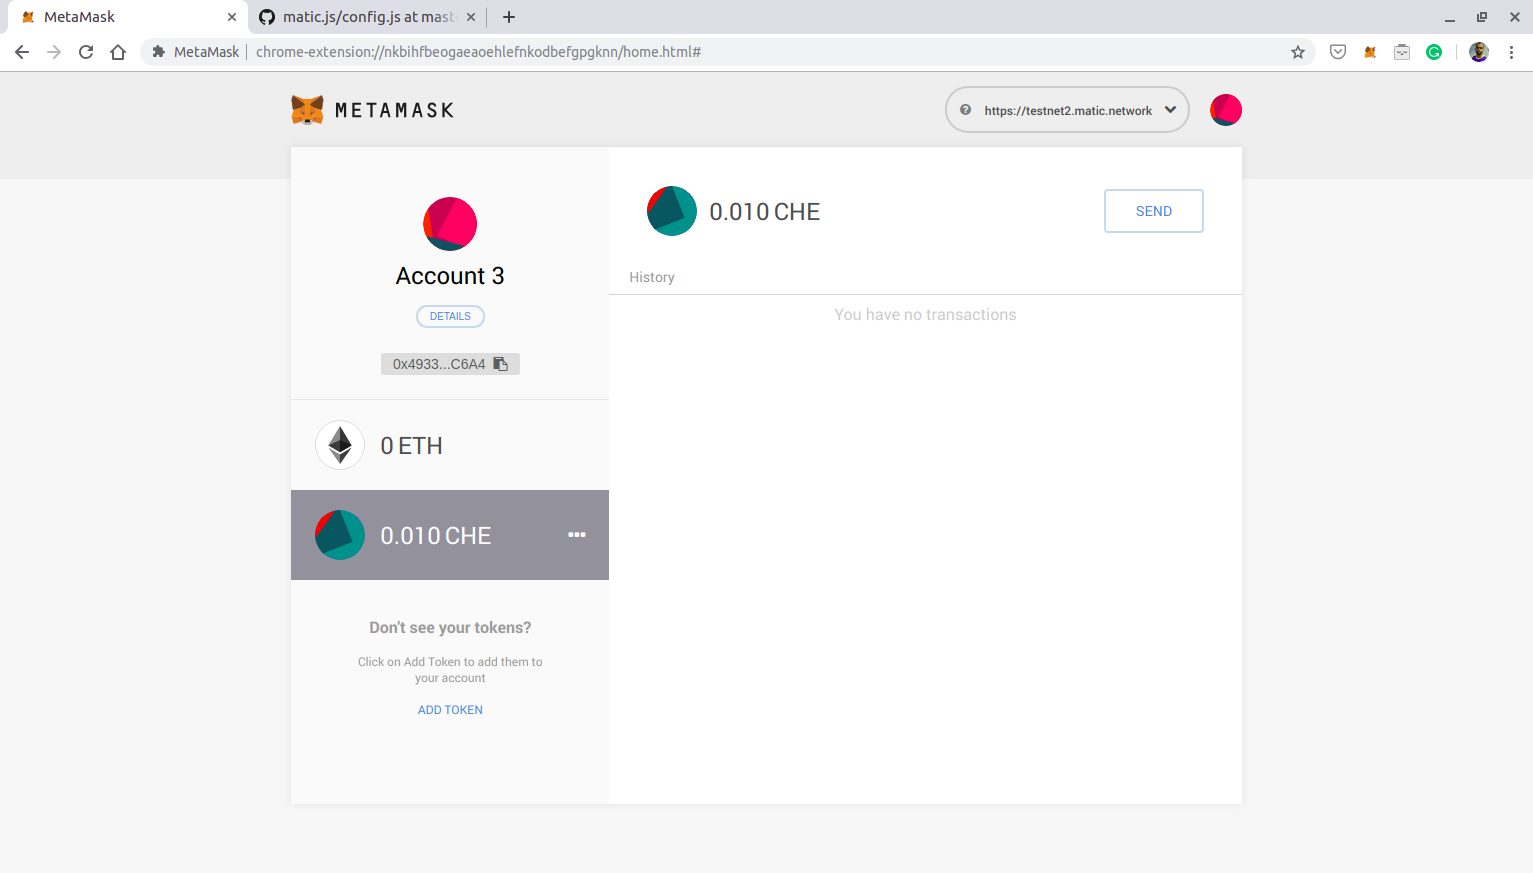
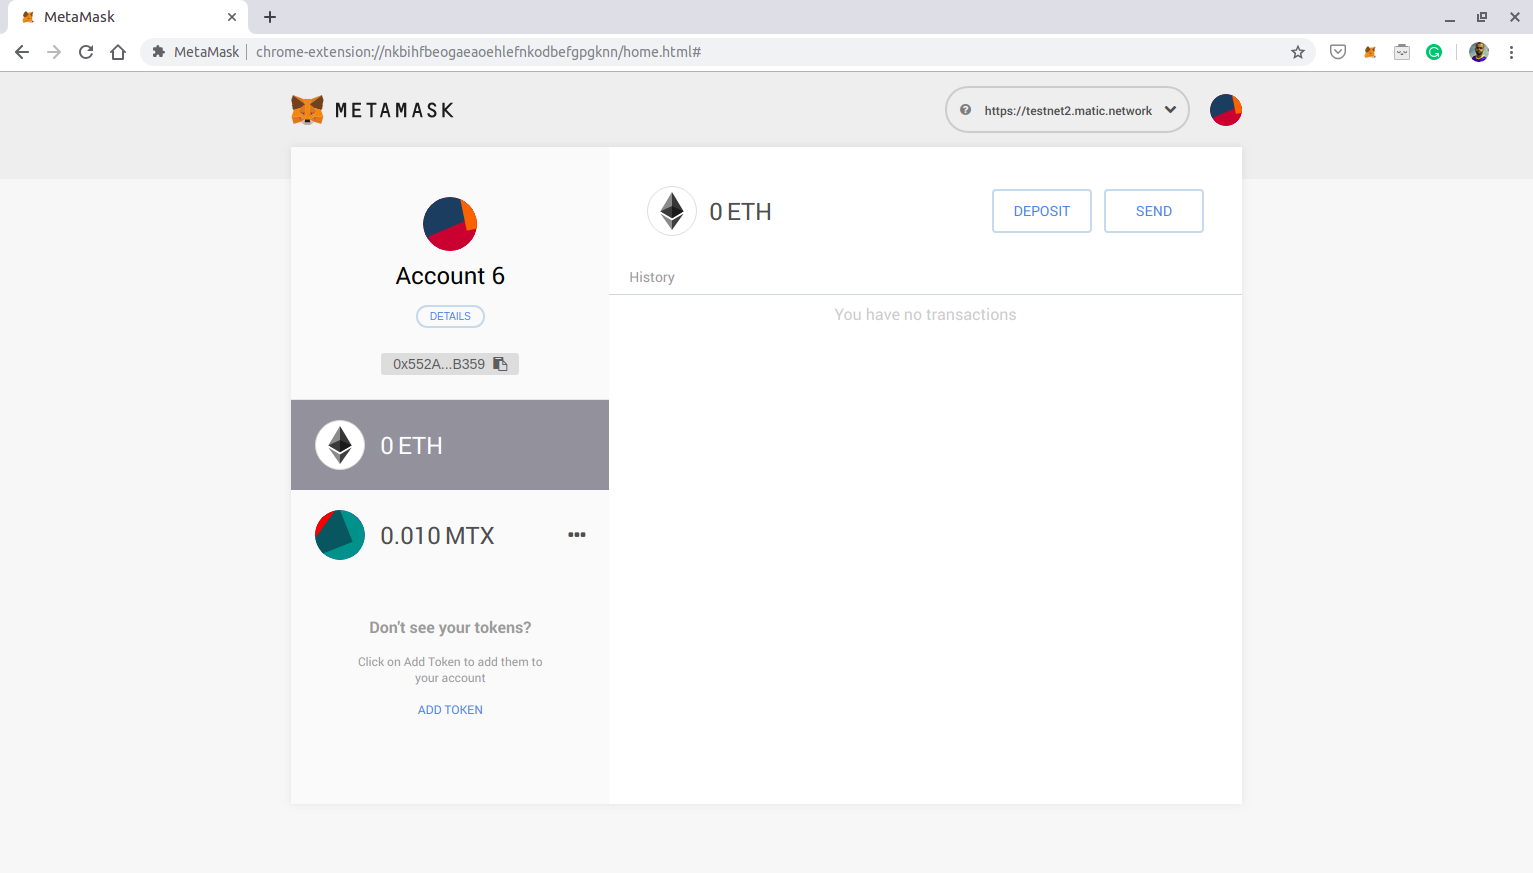
updated screens and minor text changes

diff --git a/docs/matic-js-tutorial.md b/docs/matic-js-tutorial.md
@@ -10,7 +10,7 @@ In order to make any transactions, you will also need some Ether in the test acc
 
 ### Matic Faucet
 
-Throughout this tutorial, we will be using the ERC20 token `MTX` on the Ropsten network as an example. This is a TEST token. In your DApp,you can replace it with any ERC20 token. To get some Test `MTX` tokens on Matic Network, you can access the Matic Faucet: https://wallet.matic.network/faucet
+Throughout this tutorial, we will be using the ERC20 token `MTX` on the Ropsten network as an example. This is a TEST token. In your DApp, you can replace it with any ERC20 token. To get some Test `MTX` tokens on Matic Network, you can access the Matic Faucet: https://wallet.matic.network/faucet
 
 All you would need to do is follow simple steps on the link above and you will get some funds in to your account:
 
@@ -39,9 +39,9 @@ Before starting with the tutorial, go ahead and have 3 Ethereum test accounts re
 For your reference we will be using the following accounts in this tutorial
 
 ```js
-Account #1: 0xdcd53258BA8A69C6a505300BE75447A772bFd3d6
-Account #2: 0xbAf7D06543b241E286dc776545c8e9F318aBcC47
-Account #3: 0x4933ba598e6B1f33bCDc299bE76AbE2DdFbCC6A4
+Account #1: 0x74FE3F2b084062dEe9AE0662cA14ecf5C85b94a8
+Account #2: 0x05446221202a128a10978D4C9c4500C780455429
+Account #3: 0x552A00De3aa5953efe4caE8c2c8a04b48554B359
 ```
 
 When you create multiple accounts at your end, your addresses will be different from those shown here.
@@ -213,15 +213,15 @@ matic
 
 For reference purposes, the screenshots below will provide context during the actual deposit.
 
-We currently have `9988.460 MTX` tokens and `19` ETH at our address `(0xdcd53258BA8A69C6a505300BE75447A772bFd3d6)` on Ropsten Network,
+We currently have `10 MTX` tokens and `0.5` ETH at our address `0xdcd53258BA8A69C6a505300BE75447A772bFd3d6` on Ropsten Network,
 
 ![Arch](maticjstutorial-images/before-deposit-balance-ropsten.png)
 
-while on Matic Network we have `0 Matic ETH` and `4.680 MTX` tokens.
+while on Matic Network we have `0 MTX` tokens.
 
 ![Arch](maticjstutorial-images/before-deposit-balance-matic.png)
 
-We will be depositing `0.100 MTX` tokens to Matic Testnet.
+We will be depositing `1 MTX` tokens to Matic Testnet.
 
 Let’s run the Deposit function. To run use:
 
@@ -233,11 +233,11 @@ We have added console logging for both events, which when run successfully will 
 
 Let’s verify our account balances on Metamask.
 
-Our Balance on Ropsten now shows `9988.360 MTX` which means our Deposit transaction of `0.100 MTX` was successful.
+Our Balance on Ropsten now shows `9 MTX` which means our Deposit transaction of `1 MTX` was successful.
 
 ![Arch](maticjstutorial-images/after-deposit-balance-update-ropsten.png)
 
-Verifying our balance on Matic Testnet also shows that our balance is increased by `0.100 MTX`.
+Verifying our balance on Matic Testnet also shows that our balance is increased by `1 MTX`.
 
 ![Arch](maticjstutorial-images/after-deposit-balance-update-matic.png)
 
@@ -287,7 +287,7 @@ matic.transferTokens(token, recipient, amount, {
 `recipient` is the receiver’s address, to whom the funds are supposed to be sent.
 
 ```js
-const recipient = "0x4933ba598e6B1f33bCDc299bE76AbE2DdFbCC6A4" // to address
+const recipient = "0x05446221202a128a10978D4C9c4500C780455429" // to address
 ```
 
 `token` is the Matic TEST token contract address on the Matic testnet. **Note that this is different from the Ropsten MTX token contract address.**. This is automatically picked up from the `config.js` file.
@@ -321,11 +321,11 @@ The screenshots below will provide context during the actual transfer.
 
 **Transfer #1**
 
-We will be transferring `1 MTX` from Account 1 to Account 2 on Matic Network.
+We will be transferring `0.100 MTX` from Account 1 to Account 2 on Matic Network.
 
-Account 1–`0xdcd53258BA8A69C6a505300BE75447A772bFd3d6`. This account currently holds `4.780 MTX` tokens.
+Account 1–`0x74FE3F2b084062dEe9AE0662cA14ecf5C85b94a8`. This account currently holds `9 MTX` tokens.
 
-Account 2–`0xbAf7D06543b241E286dc776545c8e9F318aBcC47`. This account currently holds `0.010 MTX` tokens.
+Account 2–`0x05446221202a128a10978D4C9c4500C780455429`. This account currently holds `0 MTX` tokens.
 
 ![Arch](maticjstutorial-images/account2-transfer1-balance.png)
 
@@ -339,11 +339,11 @@ Once the code has run successfully, it will display a message of `"Transfer done
 
 Let’s verify our balances on Metamask.
 
-Our balance on account address — `0xdcd53258BA8A69C6a505300BE75447A772bFd3d6` is now updated to `3.780 MTX` tokens.
+Our balance on account address — `0xdcd53258BA8A69C6a505300BE75447A772bFd3d6` is now updated to `0.900 MTX` tokens.
 
 ![Arch](maticjstutorial-images/account1-transfer1-update.png)
 
-And to confirm that on our receiver’s account, our balance is now updated to `1.010 MTX` tokens.
+And to confirm that on our receiver’s account, our balance is now updated to `0.100 MTX` tokens.
 
 ![Arch](maticjstutorial-images/account2-transfer1-update.png)
 
@@ -352,11 +352,11 @@ And to confirm that on our receiver’s account, our balance is now updated to `
 
 In this transaction we will attempt to transfer `0.01 MTX` from Account 1 to Account 3.
 
-From — `0xdcd53258BA8A69C6a505300BE75447A772bFd3d6`
+From — `0x74FE3F2b084062dEe9AE0662cA14ecf5C85b94a8`
 
 ![Arch](maticjstutorial-images/account1-transfer1-update.png)
 
-To — `0x4933ba598e6B1f33bCDc299bE76AbE2DdFbCC6A4`. Account 3 currently has `0 MTX` tokens.
+To — `0x552A00De3aa5953efe4caE8c2c8a04b48554B359`. Account 3 currently has `0 MTX` tokens.
 
 ![Arch](maticjstutorial-images/account3-transfer2-balance.png)
 
@@ -364,7 +364,7 @@ We will again run `$ node transfer-ERC20.js` from the terminal. Once we get the 
 
 ![Arch](maticjstutorial-images/run-transfer-erc20-2.png)
 
-Balance on Account 1 now shows a balance of `3.770 MTX`,
+Balance on Account 1 now shows a balance of `0.890MTX`,
 
 ![Arch](maticjstutorial-images/account1-transfer2-update.png)
 
@@ -499,15 +499,15 @@ _Note: A checkpoint, which is a representation of all transactions happening on 
 
 We will now initiate the Withdraw process.
 
-We currently have `3.770 MTX` tokens at our address on Matic — `0xdcd53258BA8A69C6a505300BE75447A772bFd3d6`
+We currently have `0.890 MTX` tokens at our address on Matic — `0x74FE3F2b084062dEe9AE0662cA14ecf5C85b94a8`
 
-We will withdraw `1 MTX` from the Matic Account.
+We will withdraw `0.010 MTX` from the Matic Account.
 
 To initiate the withdraw we will run `$ node initiate-withdraw-ERC20.js`.
 
 Once this process is initiated, you will receive the transaction hash. The transaction hash will be used as input to run the next step i.e. confirm withdraw process.
 
[2 lines of base64/hex data omitted]
 
 Once the initiate process is complete, we will wait for ~5 minutes, before running the second script `$ node confirm-withdraw.js`.
 
@@ -515,7 +515,7 @@ Once the initiate process is complete, we will wait for ~5 minutes, before runni
 
 To verify, we will also check the account balances on Metamask.
 
-The balance on Account 1 on Matic Network now shows `2.770 MTX` Tokens.
+The balance on Account 1 on Matic Network now shows `0.880 MTX` Tokens.
 
 ![Arch](maticjstutorial-images/confirm-withdraw-balance-update.png)
 
@@ -532,5 +532,7 @@ Once this is complete, you will see the funds in your Ropsten account.
 So that’s it folks! You have withdrawn your funds successfuly and gotten to the end of this tutorial :)
 
 Hope you have understood now that interacting with the Matic Network is quite easy. We will dive deeper and explore advanced interactions with Matic in later posts.
+
+Similarly, as an exercise you can Deposit, transfer and withdraw ERC721 and Ether using Matic.js following the same steps as above.
 
 Feel free to comment below or reach out to us at info@matic.network in case you face any issues.
